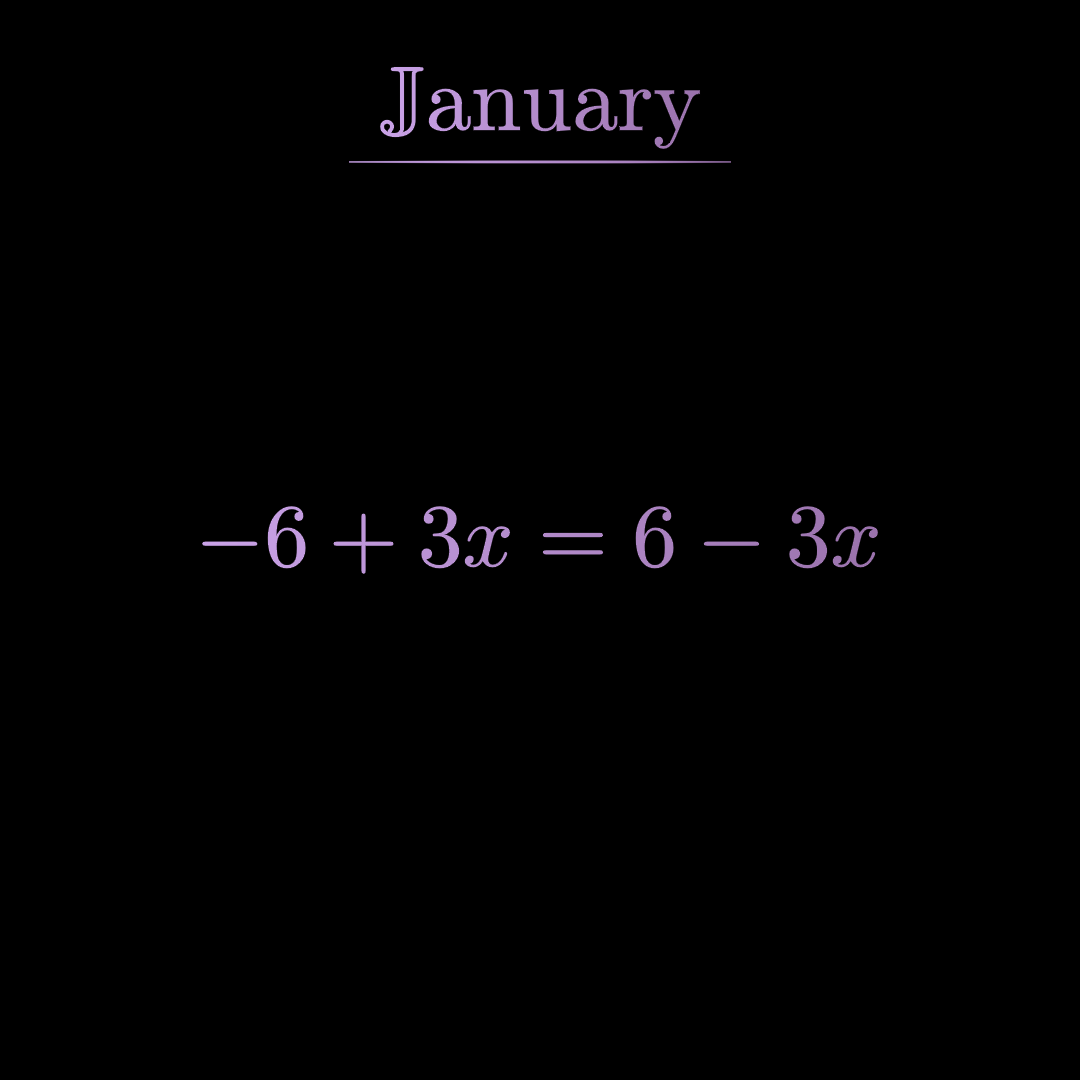
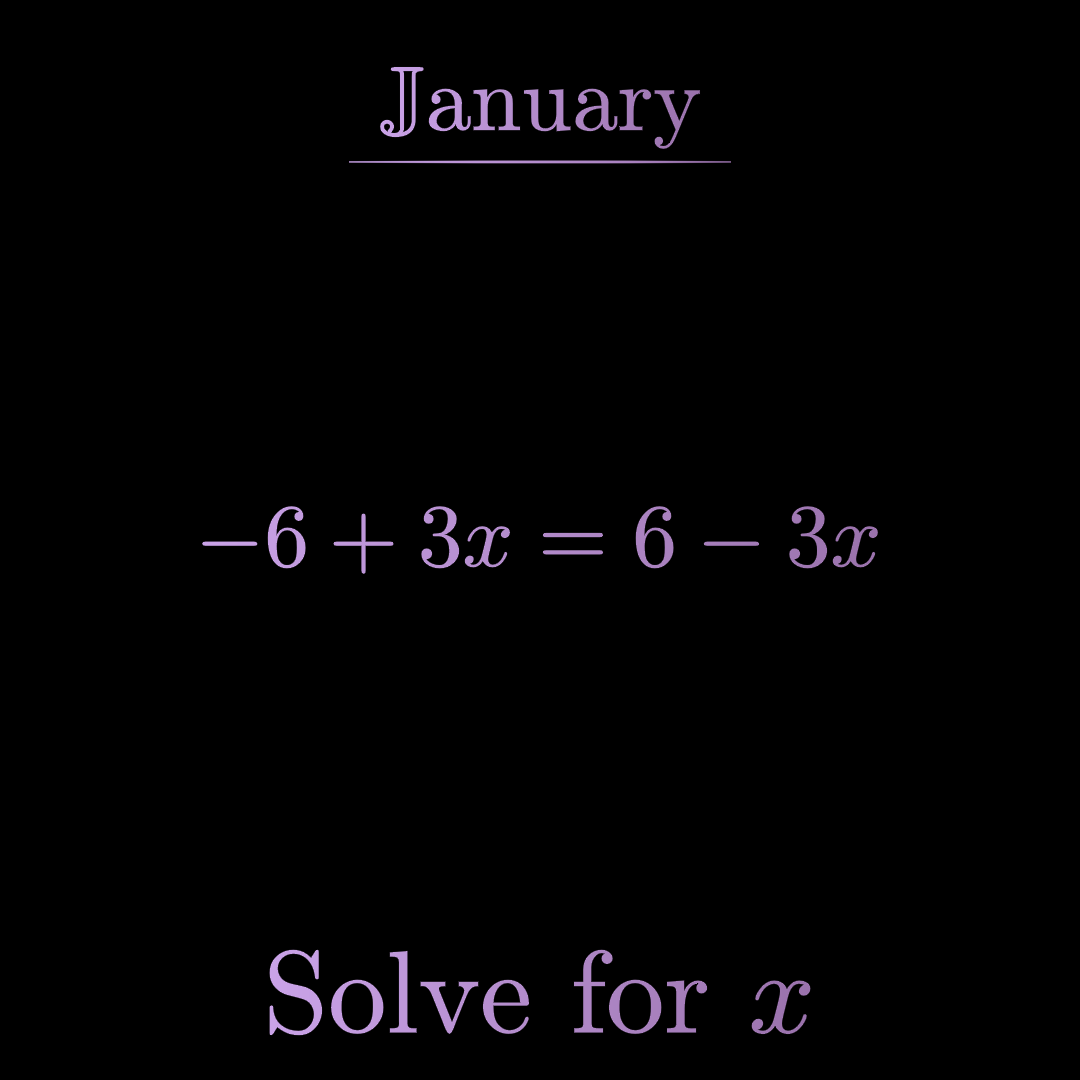
f

Changed region(s): [[0.2444, 0.8861, 0.4889, 0.9778], [0.5194, 0.8861, 0.6417, 0.9778], [0.7028, 0.8861, 0.7639, 0.9778]]

diff --git a/month.py b/month.py
@@ -31,3 +31,9 @@ class January(InteractiveScene):
         problem.set_color(color)
         problem.set_width(FRAME_WIDTH - 3)
         self.add(problem)
+
+        solve = TexText("Solve for $x$")
+        solve.set_width(FRAME_WIDTH - 4)
+        solve.set_color(color)
+        solve.to_edge(DOWN, buff=MED_LARGE_BUFF * 0.67)
+        self.add(solve)
